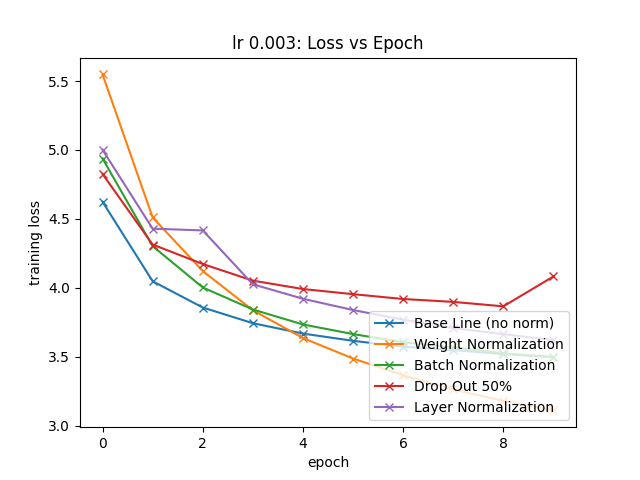
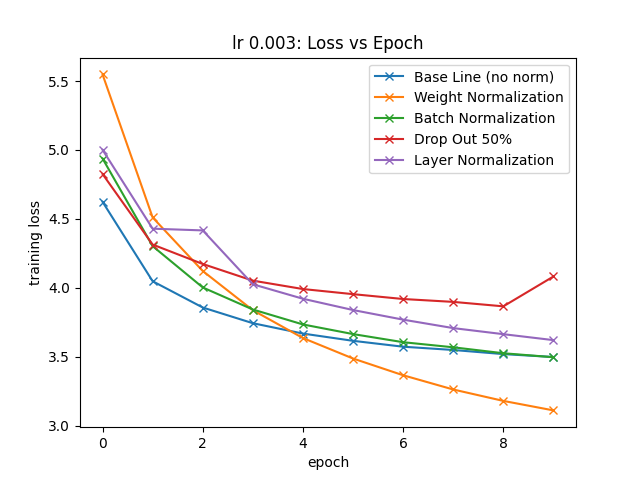
Almost finished with results

Changed region(s): [[0.5938, 0.125, 0.9062, 0.3438], [0.5625, 0.625, 0.875, 0.875], [0.5938, 0.8438, 0.625, 0.875]]

diff --git a/src/readme_chart_generator.py b/src/readme_chart_generator.py
@@ -36,7 +36,7 @@ def create_STL10_003_charts():
 
     # For every config, plot the accuracy across the number of epochs
     plt = compare_training_stats(training_sets, labels, metric_to_compare='loss', y_label='training loss',
-                                 title='LR 0.003: Loss vs Epoch', legend_loc='lower right')
+                                 title='LR 0.003: Loss vs Epoch', legend_loc='upper right')
     save_plt(plt, "STL10-Loss-vs-Epoch-003-Training")
     # plt.show WILL WIPE THE PLT, so make sure you save the plot before you show it
     plt.show()
@@ -75,7 +75,7 @@ def create_STL10_custom_charts():
 
     # For every config, plot the accuracy across the number of epochs
     plt = compare_training_stats(training_sets, labels, metric_to_compare='loss', y_label='training loss',
-                                 title='Custom LR: Loss vs Epoch', legend_loc='lower right')
+                                 title='Custom LR: Loss vs Epoch', legend_loc='upper right')
     save_plt(plt, "STL10-Loss-vs-Epoch-custom-Training")
     # plt.show WILL WIPE THE PLT, so make sure you save the plot before you show it
     plt.show()
@@ -114,7 +114,7 @@ def create_TINY_003_charts():
 
     # For every config, plot the accuracy across the number of epochs
     plt = compare_training_stats(training_sets, labels, metric_to_compare='loss', y_label='training loss',
-                                 title='lr 0.003: Loss vs Epoch', legend_loc='lower right')
+                                 title='lr 0.003: Loss vs Epoch', legend_loc='upper right')
     save_plt(plt, "TINY-Loss-vs-Epoch-003-Training")
     # plt.show WILL WIPE THE PLT, so make sure you save the plot before you show it
     plt.show()
@@ -153,11 +153,98 @@ def create_TINY_custom_charts():
 
     # For every config, plot the accuracy across the number of epochs
     plt = compare_training_stats(training_sets, labels, metric_to_compare='loss', y_label='training loss',
-                                 title='Custom LR: Loss vs Epoch', legend_loc='lower right')
+                                 title='Custom LR: Loss vs Epoch', legend_loc='upper right')
     save_plt(plt, "TINY-Loss-vs-Epoch-custom-Training")
     # plt.show WILL WIPE THE PLT, so make sure you save the plot before you show it
     plt.show()
 
+
+def create_CIFAR_003_charts():
+    training_loss_stat_files_003 = [
+        "WN_cpc_no_norm_training@0.001|Adam|CIFAR-100",
+        "WN_bb_my_norm_training@0.003|Adam|CIFAR-100",
+        "CIFAR-100_batch_norm_3x_train_metrics",
+        "net_dropout_50_003",
+        "CIFAR-100_ln_003_train_metrics"
+    ]
+
+    tmp_bl = load_stats(training_loss_stat_files_003[0])  # base line went longer than 20 epochs
+    bl = {}
+
+    for (ky, itm) in list(tmp_bl.items())[0:20]:
+        bl[ky] = itm
+
+    wn = load_stats(training_loss_stat_files_003[1])
+    bn = load_stats(training_loss_stat_files_003[2])
+    do = load_stats(training_loss_stat_files_003[3])
+    ln = load_stats(training_loss_stat_files_003[4])
+
+    labels = [
+        "Base Line (no norm)",
+        "Weight Normalization",
+        "Batch Normalization",
+        "Drop Out 50%",
+        "Layer Normalization"
+    ]
+
+    training_sets = [
+        bl,
+        wn,
+        bn,
+        do,
+        ln
+    ]
+
+    # For every config, plot the accuracy across the number of epochs
+    plt = compare_training_stats(training_sets, labels, metric_to_compare='loss', y_label='training loss',
+                                 title='lr 0.003: Loss vs Epoch', legend_loc='upper right')
+    save_plt(plt, "CIFAR100-Loss-vs-Epoch-003-Training")
+    # plt.show WILL WIPE THE PLT, so make sure you save the plot before you show it
+    plt.show()
+
+
+def create_CIFAR_custom_charts():
+    training_loss_stat_files_003 = [
+        "WN_cpc_no_norm_training@0.001|Adam|CIFAR-100",
+        "WN_bb_my_norm_training@0.001|Adam|CIFAR-100",
+        "CIFAR-100_batch_norm_5x_train_metrics",
+        "net_dropout_50_lr1",
+        "CIFAR-100_ln_001_train_metrics"
+    ]
+
+    tmp_bl = load_stats(training_loss_stat_files_003[0])  # base line went longer than 20 epochs
+    bl = {}
+
+    for (ky, itm) in list(tmp_bl.items())[0:20]:
+        bl[ky] = itm
+
+    wn = load_stats(training_loss_stat_files_003[1])
+    bn = load_stats(training_loss_stat_files_003[2])
+    do = load_stats(training_loss_stat_files_003[3])
+    ln = load_stats(training_loss_stat_files_003[4])
+
+    labels = [
+        "Base Line (no norm)",
+        "Weight Normalization @ 0.001",
+        "Batch Normalization @ 0.005",
+        "Drop Out 50% @ 0.001",
+        "Layer Normalization @ 0.001"
+    ]
+
+    training_sets = [
+        bl,
+        wn,
+        bn,
+        do,
+        ln
+    ]
+
+    # For every config, plot the accuracy across the number of epochs
+    plt = compare_training_stats(training_sets, labels, metric_to_compare='loss', y_label='training loss',
+                                 title='lr Custom: Loss vs Epoch', legend_loc='upper right')
+    save_plt(plt, "CIFAR100-Loss-vs-Epoch-custom-Training")
+    # plt.show WILL WIPE THE PLT, so make sure you save the plot before you show it
+    plt.show()
 
 
 if __name__ == "__main__":
@@ -165,3 +252,5 @@ if __name__ == "__main__":
     create_STL10_003_charts()
     create_TINY_custom_charts()
     create_TINY_003_charts()
+    create_CIFAR_custom_charts()
+    create_CIFAR_003_charts()

diff --git a/README.md b/README.md
@@ -44,7 +44,16 @@ Setup:
 - learning rate of 0.003 and one Custom LR run (paper owner chose a different LR)
     
 
-CHART HERE
+![CIFAR100 Training Loss Chart lr 003](./images/CIFAR100-Loss-vs-Epoch-003-Training.png)
+![CIFAR100 Training Loss Chart lr custom](./images/CIFAR100-Loss-vs-Epoch-custom-Training.png)
+
+| Normalization | Test Acc @ 0.003 | Test Acc @ Custom |
+| --- | --- | --- |
+| Weight Normalization | |  |
+| Batch Normalization |  |  |
+| Drop Out |  |  |
+| Layer Normalization |  |  |
+| Instance Normalization | | |
 
 ### STL10 Task Performance per Normalization
 
